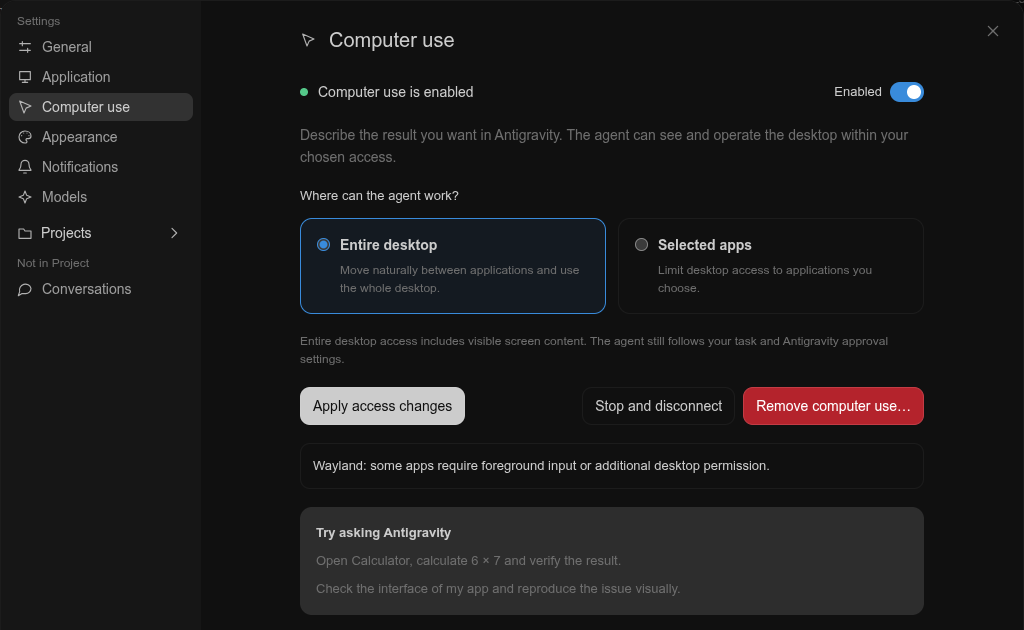
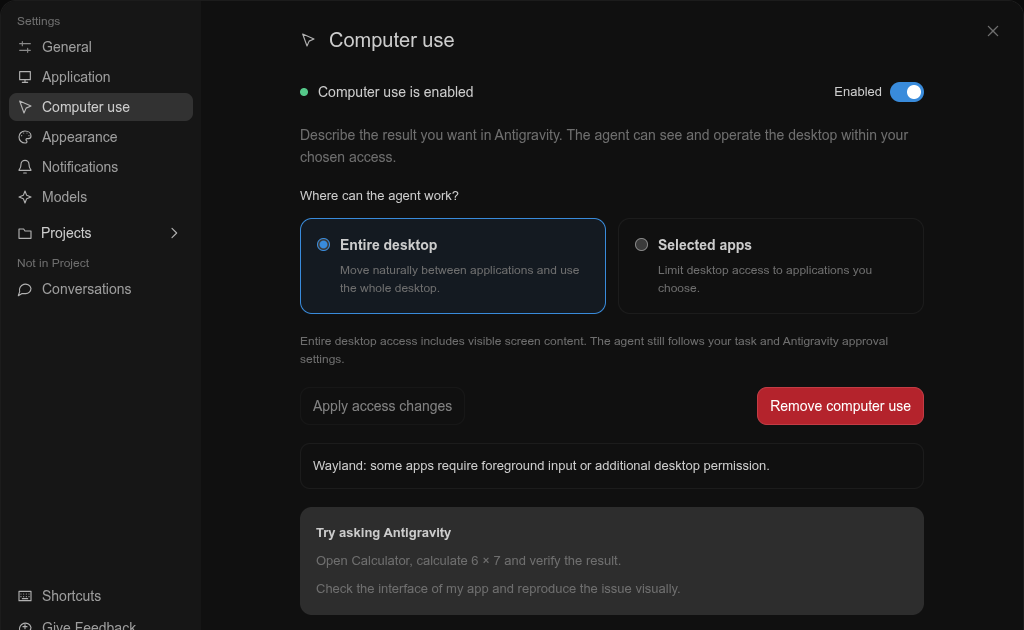
Simplify computer-use states and apply only changed access settings

diff --git a/common/computer-use-settings.js b/common/computer-use-settings.js
@@ -1,7 +1,7 @@
 /* Guided desktop access in a dedicated native Settings page. */
 (() => {
  'use strict';
- const VERSION = '1.4.1';
+ const VERSION = '1.4.2';
  if (globalThis.__AGComputerUse?.version === VERSION) return;
  globalThis.__AGComputerUse?.destroy();
  const i18n = globalThis.__AGPAI18n;
@@ -10,7 +10,7 @@
  const pending = new Map();
  let section, state = {}, busy = false, draft = typeof savedDraft === 'string' ? savedDraft : savedDraft?.apps;
  let scopeDraft = savedDraft?.scope, nativeRefresh = null, scheduled = false, destroyed = false, refreshing = false;
- let checksSignature = '', autoQueued = false;
+ let checksSignature = '', autoQueued = false, pendingAction = null, actionEpoch = 0, stopRequested = false;
  const errors = {
   selectApps: 'Choose at least one application executable.', invalidApp: 'Use an existing absolute executable path for each application.',
   serverConflict: 'This MCP server name is already used. Resolve the conflict in native MCP settings.',
@@ -29,6 +29,7 @@
   i18n.attrs(element, attributes); return element;
  }
  function scope() {return scopeDraft || state.scope || 'desktop';}
+ function selectedApps() {return section.querySelector('textarea').value.split(/\r?\n/).map(value=>value.trim()).filter(Boolean);}
  function rows(checks, step, withUpdates = false) {
   return checks.map(check => {
    const active = step === check.id;
@@ -53,8 +54,10 @@
   if (!section || destroyed) return;
   const t = (selector, text, params) => i18n.set(section.querySelector(selector), text, params);
   const working = busy || !!state.operation;
+  const enabling = !stopRequested && (pendingAction === 'setup' || ['setup','install','connect'].includes(state.operation));
+  const switchOn = pendingAction !== 'disconnect' && (!!state.enabled || enabling);
   t('[data-cu-connection]', state.operation === 'uninstall' ? 'Removing computer use…' : state.operation ? 'Preparing computer use…' : state.enabled ? state.needsHelper ? 'Desktop access needs activation' : 'Computer use is enabled' : 'Your agent, across your desktop');
-  t('[data-cu-summary]', state.enabled ? 'Describe the result you want in Antigravity. The agent can see and operate the desktop within your chosen access.' : 'Let Antigravity work across your apps: explore, click, type and verify the result.');
+  t('[data-cu-summary]', state.enabled ? 'Describe the result you want in Antigravity. The agent can see and operate the desktop within your chosen access.' : state.installed ? 'Computer use is disabled. Your installation and access settings are kept.' : 'Let Antigravity work across your apps: explore, click, type and verify the result.');
   const loginRequired = state.needsHelper && state.helperInstalled && ['signInRequired', 'unknown'].includes(state.helperState);
   t('[data-cu-platform]', loginRequired ? 'Sign out of Linux to activate desktop access' : state.needsHelper ? state.helperInstalled ? 'The GNOME helper is disabled or could not load. Select Repair desktop helper, then refresh status.' : 'The setup will install the GNOME desktop helper. A new sign-in is required to activate it.' : state.session === 'wayland' ? 'Wayland: some apps require foreground input or additional desktop permission.' : state.experimental ? 'Windows support is experimental. Keep the target app visible in your desktop session.' : 'Desktop permissions may be requested when you first use an application.');
   section.querySelector('[data-cu-login-steps]').hidden = !loginRequired;
@@ -62,17 +65,23 @@
   t('[data-cu-connect]', working ? 'Preparing computer use…' : 'Apply access changes');
   section.querySelector('[data-cu-connect]').hidden = !state.enabled;
   const toggle=section.querySelector('[data-cu-toggle]');
-  toggle.setAttribute('aria-checked',String(!!state.enabled));
-  i18n.set(toggle,state.enabled?'Disconnect the agent and keep setup.':'Enable using the access selected below.',{},'title');
-  t('[data-cu-toggle-label]',state.enabled?'Enabled':'Disabled');
+  toggle.setAttribute('aria-checked',String(switchOn));
+  i18n.set(toggle,switchOn?'Disconnect the agent and keep setup.':'Enable using the access selected below.',{},'title');
+  t('[data-cu-toggle-label]',pendingAction==='disconnect'?'Disabling…':enabling&&!state.enabled?'Enabling…':state.enabled?'Enabled':'Disabled');
+  section.querySelector('[data-cu-runtime-notice]').hidden = !switchOn;
+  section.querySelector('[data-cu-examples]').hidden = !state.enabled;
+  section.querySelector('[data-cu-advanced-actions]').hidden = !state.enabled;
+  section.querySelector('[data-cu-native-note]').hidden = !state.enabled;
+  section.querySelector('[data-cu-operation]').hidden = !state.enabled && !state.error && !working;
+  t('[data-cu-details-title]',switchOn?'Connection details':'Installation details');
   t('[data-cu-removal]', state.removal?.skillRetained ? 'Computer use removed. Your locally edited skill was kept; rename or remove it before setting up again.' : 'Computer use removed. Select Enable computer use for a fresh setup.');
   section.querySelector('[data-cu-removal]').hidden = !state.removal;
   const checks = globalThis.__AGPAComputerUseChecks(state, globalThis.__AGNativeMcp?.status());
   const step = state.progress?.step || (refreshing ? 'native' : null);
-  const checksKey = JSON.stringify([checks, i18n.language, state.driverVersion, loginRequired, step, state.updates?.checking]);
+  const checksKey = JSON.stringify([checks, i18n.language, state.driverVersion, loginRequired, step, state.updates?.checking, switchOn]);
   if (checksKey !== checksSignature) {
    checksSignature = checksKey;
-   section.querySelector('[data-cu-checks]').replaceChildren(...rows(checks,step,true));
+   section.querySelector('[data-cu-checks]').replaceChildren(...rows(switchOn?checks:checks.filter(check=>check.id==='driver'),step,true));
    section.querySelector('[data-cu-progress-checks]').replaceChildren(...rows(checks,step));
   }
   const inProgress = working || refreshing;
@@ -102,13 +111,16 @@
    for (const choice of state.availableApps || []) select.append(node('option', {value: choice.executable, text: choice.name}));
   }
   for (const button of section.querySelectorAll('button')) button.disabled = working;
-  section.querySelector('[data-cu-disconnect]').disabled = !state.enabled && !state.registered && !state.operation;
+  const changed=globalThis.__AGPAComputerUseAccessChanged(state,{scope:scope(),apps:selectedApps()});
+  const apply=section.querySelector('[data-cu-connect]');
+  apply.disabled = working || !state.enabled || !changed;
+  apply.classList.toggle('agpa-cu-primary',!apply.disabled);
   section.querySelector('[data-cu-check]').disabled ||= !state.enabled;
   section.querySelector('[data-cu-capture]').hidden = scope() !== 'desktop';
   section.querySelector('[data-cu-capture]').disabled ||= !state.enabled || !!state.needsHelper || state.scope !== 'desktop';
   section.querySelector('[data-cu-helper]').hidden = !state.needsHelper || !state.installed || loginRequired;
   section.querySelector('[data-cu-remove]').disabled ||= !state.installed && !state.registered && !state.skillReady;
-  toggle.disabled = working || !state.platform;
+  toggle.disabled = !state.platform || pendingAction==='disconnect' || pendingAction==='uninstall' || state.operation==='uninstall';
   const updateButton=section.querySelector('[data-cu-updates]');if(updateButton)updateButton.disabled=working||!!update?.checking;
   section.querySelector('[data-cu-progress-close]').disabled=false;section.querySelector('[data-cu-update-close]').disabled=false;
   section.querySelector('[data-cu-progress-stop]').disabled=false;
@@ -134,7 +146,7 @@
   const previousAction=state.operation;
   const completed = !!state.operation && !next.operation;
   if (completed && ['setup','connect'].includes(previousAction) && !next.error) {draft = undefined;scopeDraft = undefined;}
-  state = next; paint();
+  state = next;if(!state.enabled&&!state.operation)stopRequested=false;paint();
   if (completed && ['setup','uninstall','connect','check'].includes(previousAction) && !state.error) refreshNative();
   maybeVerify();
  }
@@ -144,16 +156,17 @@
  }
  async function act(action) {
   if (busy && action !== 'disconnect') return;
-  busy = true;paint();
+  const epoch=++actionEpoch;if(action==='disconnect')stopRequested=true;else if(action==='setup')stopRequested=false;pendingAction=action;busy = true;paint();
   if(action==='setup'){section.querySelector('[data-cu-progress-dialog]').showModal();section.querySelector('[data-cu-progress-close]').focus();}
   try {
-   const apps = section.querySelector('textarea').value.split(/\r?\n/).map(s => s.trim()).filter(Boolean);
+   const apps = selectedApps();
    const next = await request(action, ['setup', 'connect'].includes(action) ? {scope: scope(), apps} : true);
+   if(epoch!==actionEpoch)return;
    receive(next);
    if (['connect', 'disconnect', 'refresh'].includes(action) && !state.error) await refreshNative();
    if (['setup', 'connect'].includes(action) && !state.error && !state.operation) {draft = undefined;scopeDraft = undefined;}
-  } catch {state = {...state, error: 'operationFailed'};}
-  finally {busy = false;paint();maybeVerify();}
+  } catch {if(epoch===actionEpoch)state = {...state, error: 'operationFailed'};}
+  finally {if(epoch===actionEpoch){busy = false;pendingAction=null;paint();maybeVerify();}}
  }
  function build() {
   const scopes = node('fieldset', {class: 'agpa-cu-scopes'}, node('legend', {text: 'Where can the agent work?'}));
@@ -167,24 +180,22 @@
   }
   const textarea = node('textarea', {rows: '3', class: 'agpa-cu-apps', 'aria-label': 'Allowed application executables', placeholder: 'One absolute executable path per line'});
   if (draft !== undefined) textarea.value = draft;
-  textarea.addEventListener('input', () => {draft = textarea.value;});
+  textarea.addEventListener('input', () => {draft = textarea.value;paint();});
   const select = node('select', {'aria-label': 'Detected applications', class: 'agpa-cu-apps'});
   const add = node('button', {type: 'button', class: 'agpa-app-icon-option', text: 'Add application'});
-  add.addEventListener('click', () => {if (!select.value) return;const apps = new Set(textarea.value.split(/\r?\n/).map(s => s.trim()).filter(Boolean));apps.add(select.value);draft = textarea.value = [...apps].join('\n');});
+  add.addEventListener('click', () => {if (!select.value) return;const apps = new Set(selectedApps());apps.add(select.value);draft = textarea.value = [...apps].join('\n');paint();});
   const apps = node('div', {'data-cu-app-scope': '', class: 'agpa-cu-selected'}, node('div', {class: 'agpa-patch-actions'}, select, add), textarea);
   const enable = node('button', {type: 'button', class: 'agpa-app-icon-option agpa-cu-primary', 'data-cu-connect': '', text: 'Enable computer use'});
   enable.addEventListener('click', () => act('setup'));
   const toggle=node('button',{type:'button',class:'agpa-cu-enable-switch',role:'switch','aria-label':'Computer use','aria-checked':'false','data-cu-toggle':''},
    node('span',{'data-cu-toggle-label':''}),node('span',{class:'agpa-cu-switch-track','aria-hidden':'true'},node('span',{class:'agpa-cu-switch-thumb'})));
-  toggle.addEventListener('click',()=>act(state.enabled?'disconnect':'setup'));
-  const stop = node('button', {type: 'button', class: 'agpa-app-icon-option', 'data-cu-disconnect': '', text: 'Stop and disconnect'});
-  stop.addEventListener('click', () => act('disconnect'));
-  const advancedActions = node('div', {class: 'agpa-patch-actions'});
+  toggle.addEventListener('click',()=>act(state.enabled||state.operation||busy?'disconnect':'setup'));
+  const advancedActions = node('div', {class: 'agpa-patch-actions','data-cu-advanced-actions':''});
   for (const [action, key, label] of [['setupHelper', 'helper', 'Repair desktop helper'], ['check', 'check', 'Check connection'], ['refresh', 'status', 'Refresh status'], ['capture', 'capture', 'Test screen capture']]) {
    const button = node('button', {type: 'button', class: 'agpa-app-icon-option', [`data-cu-${key}`]: '', text: label});
    button.addEventListener('click', () => act(action));advancedActions.append(button);
   }
-  const remove = node('button', {type:'button',class:'agpa-app-icon-option agpa-cu-danger','data-cu-remove':'',text:'Remove computer use…'});
+  const remove = node('button', {type:'button',class:'agpa-app-icon-option agpa-cu-danger','data-cu-remove':'',text:'Remove computer use'});
   remove.addEventListener('click', () => {removal.showModal();cancel.focus();});
   const cancel = node('button', {type:'button',class:'agpa-app-icon-option',text:'Cancel'});
   cancel.addEventListener('click', () => removal.close());
@@ -197,7 +208,7 @@
    node('p',{class:'agpa-cu-muted',text:'Other MCP servers, conversations and edited skills are kept. The shared GNOME helper and other Cua installations are kept.'})),
    node('div',{class:'agpa-patch-actions'}, cancel,confirm));
   const progressClose=node('button',{type:'button',class:'agpa-app-icon-option','data-cu-progress-close':'',text:'Continue in background'});
-  const progressStop=node('button',{type:'button',class:'agpa-app-icon-option','data-cu-progress-stop':'',text:'Stop and disconnect'});
+  const progressStop=node('button',{type:'button',class:'agpa-app-icon-option','data-cu-progress-stop':'',text:'Cancel setup'});
   const progressDialog=node('dialog',{class:'agpa-cu-confirm agpa-cu-progress','data-cu-progress-dialog':'','aria-labelledby':'agpa-cu-progress-title'},
    node('h3',{id:'agpa-cu-progress-title'},node('span',{'data-cu-progress-indicator':'','aria-hidden':'true'}),node('span',{'data-cu-progress-title':''})),
    node('p',{'data-cu-progress-label':'',role:'status','aria-live':'polite'}),
@@ -214,23 +225,23 @@
    node('a',{'data-cu-release-link':'',target:'_blank',rel:'noopener noreferrer',text:'View official release notes'}),
    node('div',{class:'agpa-patch-actions'},updateClose));
   updateClose.addEventListener('click',()=>updateDialog.close());
-  const examples = node('div', {class: 'agpa-cu-examples'}, node('strong', {text: 'Try asking Antigravity'}),
+  const examples = node('div', {class: 'agpa-cu-examples','data-cu-examples':''}, node('strong', {text: 'Try asking Antigravity'}),
    node('p', {text: 'Open Calculator, calculate 6 × 7 and verify the result.'}),
    node('p', {text: 'Check the interface of my app and reproduce the issue visually.'}));
   section = node('section', {class: 'agpa-cu-panel', 'data-agpa-computer-use-setting': ''},
    node('div', {class: 'agpa-cu-hero'}, node('span', {class: 'agpa-cu-status-dot', 'aria-hidden': 'true'}), node('h3', {'data-cu-connection': '', role: 'status'}),toggle),
    node('p', {class: 'agpa-cu-summary', 'data-cu-summary': ''}), scopes, apps,
    node('p', {class: 'agpa-cu-muted', text: 'Entire desktop access includes visible screen content. The agent still follows your task and Antigravity approval settings.'}),
-   node('div', {class: 'agpa-cu-controls'}, enable, node('div',{class:'agpa-cu-stop-actions'},stop,remove)),
-   node('div', {class: 'agpa-cu-notice'}, node('p', {'data-cu-platform': ''}),
+   node('div', {class: 'agpa-cu-controls'}, enable,remove),
+   node('div', {class: 'agpa-cu-notice','data-cu-runtime-notice':''}, node('p', {'data-cu-platform': ''}),
     node('p', {'data-cu-login-steps': '', text: 'Save your work, then choose Log Out / End Session in the Linux system menu and sign in again. Lock / Unlock keeps the same session and does not load the helper. Reopen Antigravity and select Refresh status.'})),
    examples,
-   node('details', {class: 'agpa-cu-advanced'}, node('summary', {text: 'Connection details'}),
+   node('details', {class: 'agpa-cu-advanced'}, node('summary', {'data-cu-details-title':'',text: 'Connection details'}),
     node('ul', {class:'agpa-cu-checks','data-cu-checks':'','aria-label':'Connection checks'}),
     advancedActions,
     node('p', {class: 'agpa-app-icon-status', 'data-cu-operation': '', role: 'status', 'aria-live': 'polite'}),
     removal,node('p',{class:'agpa-cu-notice','data-cu-removal':'',role:'status'}),
-    node('p', {class: 'agpa-cu-muted', text: 'Available to the native Antigravity agent. The embedded Gemini website does not receive these tools.'}),
+    node('p', {class: 'agpa-cu-muted', 'data-cu-native-note':'',text: 'Available to the native Antigravity agent. The embedded Gemini website does not receive these tools.'}),
     node('a', {href: 'https://github.com/Riccardo-Vecchi/antigravity-plugin/blob/main/docs/COMPUTER_USE.md', target: '_blank', rel: 'noopener noreferrer', text: 'Computer-use setup guide'})),progressDialog,updateDialog);
   request('status', true).then(receive).catch(() => {});
  }
@@ -251,7 +262,7 @@
   .agpa-cu-switch-track{display:block;position:relative;width:34px;height:20px;background:#666;border-radius:20px}
   .agpa-cu-switch-thumb{display:block;position:absolute;top:3px;left:3px;width:14px;height:14px;border-radius:50%;background:white}
   .agpa-cu-enable-switch[aria-checked=true] .agpa-cu-switch-track{background:#398bdb}.agpa-cu-enable-switch[aria-checked=true] .agpa-cu-switch-thumb{left:17px}
-  .agpa-cu-controls{display:flex;align-items:center;justify-content:space-between;gap:12px;flex-wrap:wrap}.agpa-cu-stop-actions{display:flex;gap:8px;margin-left:auto;flex-wrap:wrap}
+  .agpa-cu-controls{display:flex;align-items:center;justify-content:space-between;gap:12px;flex-wrap:wrap}.agpa-cu-controls>[data-cu-remove]{margin-left:auto}
   .agpa-cu-panel[data-state=enabled] .agpa-cu-status-dot{background:#55c98a}.agpa-cu-panel[data-state=attention] .agpa-cu-status-dot{background:#e5b35e}
   .agpa-cu-panel[data-state=error] .agpa-cu-status-dot{background:#e66d6d}.agpa-cu-summary{color:var(--muted-foreground,#aaa);font-size:14px}
   .agpa-cu-scopes{border:0;padding:0;margin:0;display:grid;grid-template-columns:1fr 1fr;gap:12px}

diff --git a/docs/COMPUTER_USE.md b/docs/COMPUTER_USE.md
@@ -6,7 +6,7 @@ Give the **native Antigravity agent** desktop tools through the maintained [Cua 
 
 1. Open **Settings → Computer use**, its own item in the Settings menu. Settings navigation has icons; its Projects group can be collapsed and uses your configured project appearance.
 2. Choose **Entire desktop** to work across your environment, or **Selected apps** for an application allowlist.
-3. Turn on the **Computer use** switch at the top. A centered progress dialog shows the active step with a spinner, individual checks, and actual downloaded MB. **Continue in background** or Escape hides the dialog while setup continues; **Stop and disconnect** revokes it. Setup downloads the reviewed driver, verifies its SHA-256, installs the GNOME helper when needed, writes this integration's MCP entry and skill, checks the protocol and asks Antigravity to refresh only this server.
+3. Turn on the **Computer use** switch at the top. A centered progress dialog shows the active step with a spinner, individual checks, and actual downloaded MB. **Continue in background** or Escape hides the dialog while setup continues; **Cancel setup** revokes it. Setup downloads the reviewed driver, verifies its SHA-256, installs the GNOME helper when needed, writes this integration's MCP entry and skill, checks the protocol and asks Antigravity to refresh only this server.
 4. Follow any OS access prompt. On GNOME/Wayland, the helper needs a **Linux session logout/login once** to load. Save your work, open the system menu → Power → Log Out (on Zorin), then sign in to Linux again. Reopen Antigravity and select **Refresh status**. **Locking/unlocking the screen keeps the same Linux session and does not load the extension.** Closing the app or signing out of Google also does not load it. The wizard never logs you out or restarts your apps.
 5. Start a **new Antigravity conversation** and describe the result you want. Existing conversations can keep their earlier tool list.
 
@@ -43,19 +43,25 @@ In either mode, the bridge exposes only the reviewed GUI tool set (17 tools for 
 
 The top switch reflects the actual connection state. **OFF** revokes desktop access and disconnects the native agent while keeping the installed driver and access choices. **ON** runs setup/reconnection using the access currently selected below; an installed reviewed driver is reused. **Apply access changes** saves scope edits while enabled.
 
-The switch and **Stop and disconnect** share one connection state. Stop is the immediate action that also cancels in-progress setup; there is no separate hidden “enabled but disconnected” state. The red **Remove computer use…** button is immediately to its right and removes managed components after confirmation.
+The switch is the single connection control and remains usable to cancel setup after the progress dialog is sent to the background. The dialog has a contextual **Cancel setup** action. The red **Remove computer use** button removes managed components after confirmation.
+
+**Apply access changes** is gray and disabled when the visible scope/app list matches the saved configuration. Selecting another scope or editing the selected-app allowlist makes it white and clickable; selecting the original scope again disables it. Reordering/duplicating app paths alone is not an access change.
+
+When disabled, access choices stay editable for the next activation, and **Remove computer use** remains available. Examples, desktop-permission notices and connection checks are hidden. **Installation details** retains the driver version and update check. Enabling restores the full interface without discarding access drafts.
+
+![Disabled computer use keeps access choices and installation details available](images/computer-use-disabled.png)
 
 Activity spinners keep rotating even when the OS requests reduced motion, as an explicit exception limited to these work indicators. Other OS motion preferences are unchanged.
 
-## ⏹ Stop and disconnect
+## ⏹ Disable and cancel
 
-**Stop and disconnect** is always available during setup or while connected. It cancels setup, revokes the lease and removes only the plugin's MCP entry, preserving unrelated servers. The bridge checks revocation every 300 ms, requests graceful shutdown and forces exit if needed. An action already delivered cannot be undone. Driver files, scope choices and the owned skill remain available for reconnecting.
+Switching **OFF** cancels setup and revokes the lease and removes only the plugin's MCP entry, preserving unrelated servers. The bridge checks revocation every 300 ms, requests graceful shutdown and forces exit if needed. An action already delivered cannot be undone. Driver files, scope choices and the owned skill remain available for reconnecting.
 
 The platform disable scripts also disconnect computer use. In Selected apps mode, capability sessions expire after eight hours, with a thirty-minute idle timeout; reconnect to start a fresh runtime. Entire desktop uses the normal driver session lifecycle.
 
 ## ♻ Remove and set up again
 
-Open **Settings → Computer use → Remove computer use…**, the red button beside **Stop and disconnect**, and confirm in the centered dialog. Cancel or press Escape to keep the setup. This revokes the connection, removes only the plugin's own MCP entry, deletes its verified managed driver, setup preferences and unchanged generated skill. Then turn on the top switch to download and configure it again.
+Open **Settings → Computer use → Remove computer use**, the red button, and confirm in the centered dialog. Cancel or press Escape to keep the setup. This revokes the connection, removes only the plugin's own MCP entry, deletes its verified managed driver, setup preferences and unchanged generated skill. Then turn on the top switch to download and configure it again.
 
 Other MCP servers, conversations, Antigravity/Gemini data, other Cua installations and the **shared WinRects GNOME extension** remain untouched. A locally edited skill is preserved and reported: rename or remove it yourself before a fresh setup. Unrecognized driver folders or missing/invalid receipts stop removal instead of deleting unknown files. Use **Repair desktop helper** for a disabled or failed helper; reinstallation is unnecessary when it only needs the next Linux sign-in.
 

diff --git a/README.md b/README.md
@@ -6,7 +6,7 @@
 
 # 🧩 Antigravity Plugin
 
-[![Version 1.2.1](https://img.shields.io/badge/version-1.2.1-blue)](CHANGELOG.md)
+[![Version 1.2.2](https://img.shields.io/badge/version-1.2.2-blue)](CHANGELOG.md)
 [![Checks](https://github.com/Riccardo-Vecchi/antigravity-plugin/actions/workflows/checks.yml/badge.svg?branch=main)](https://github.com/Riccardo-Vecchi/antigravity-plugin/actions/workflows/checks.yml)
 [![Linux verified](https://img.shields.io/badge/Linux-verified-brightgreen)](docs/CONFIGURATION.md)
 [![Windows experimental](https://img.shields.io/badge/Windows-experimental-orange)](windows/README.md)
@@ -22,13 +22,13 @@
 
 | Platform | Status |
 | --- | --- |
-| 🐧 Linux x86-64 | Verified with Antigravity App 2.26.0 on Zorin/GNOME 46 |
+| 🐧 Linux x86-64 | Verified with Antigravity App 2.27.0 on Zorin/GNOME 46 |
 | <img src="assets/logos/windows.svg" width="18" alt="Windows"> Windows 11 x64 | **Experimental**; full desktop verification is pending |
 
 ## ✨ Features
 
 - Gemini in the same window, with an in-page return button and a configurable shortcut (default **Ctrl+Alt+G**).
-- Optional **Computer Use** through maintained Cua Driver: guided setup, entire-desktop or selected-app access, a progress dialog, automatic capture checks, upstream update checks, Stop controls and clean reinstallation. [Setup guide](docs/COMPUTER_USE.md).
+- Optional **computer use** with guided setup for the whole desktop or selected apps. [Setup guide](docs/COMPUTER_USE.md).
 - Project icons, emoji and colors through **Project ⋯ → Edit**, shared across the sidebar and project selector.
 - Compact sidebar that keeps navigation and project icons visible.
 - Settings navigation with icons, a dedicated Computer use page and a collapsible Projects group that uses your configured project icons and colors.
@@ -72,9 +72,7 @@ Open **Antigravity (customized)** from the Start menu for subsequent launches. T
 
 ## ⚙ Settings and updates
 
-**Computer use** has its own Settings page. Choose **Entire desktop** or **Selected apps**, then turn on the switch at the top: the wizard installs the reviewed driver and connects it to Antigravity over MCP. The progress dialog shows the current step and actual downloaded bytes; it can continue in the background. The wizard refreshes the native MCP server when the app supports it; start a new agent conversation after connecting. Linux is the primary implementation; Windows remains experimental. The embedded Gemini website does not receive desktop tools.
-
-On GNOME/Wayland, newly installed desktop access needs one **Linux logout/login** (locking and unlocking is insufficient). The page explains the steps; closing the app or signing out of Google is insufficient. **Connection details** shows a green check for each passed check, an orange dot for pending checks and a spinner for the active step. Screen capture is tested automatically once desktop access is ready. The refresh icon beside the Cua Driver version checks official upstream releases without replacing the reviewed driver. The top switch connects/disconnects while keeping setup; **Stop and disconnect** also cancels an in-progress setup. The red **Remove computer use…** button beside Stop resets the plugin-managed setup for reinstallation, preserving unrelated integrations and the shared GNOME helper.
+**Computer use:** open **Settings → Computer use**, choose **Entire desktop** or **Selected apps**, and enable it. Works with the native Antigravity agent. On GNOME/Wayland, first setup may require a Linux logout/login. [Setup and troubleshooting](docs/COMPUTER_USE.md).
 
 **Shortcuts** lets you record, save, reset or disable the view-switch shortcut. **Appearance** contains app-icon choices; **Application → Startup** contains launch behavior; **Application → Local customizations** contains status and recovery.
 

diff --git a/docs/PRIVACY.md b/docs/PRIVACY.md
@@ -18,6 +18,6 @@ The optional Cua Driver integration stores access scope, selected local executab
 
 The Computer use documentation screenshot shows only the Settings UI, cropped above the account footer with the Projects group collapsed. It contains no account identifier, chat content or local executable path.
 
-The screen-capture diagnostic runs automatically once desktop access is ready in Entire desktop mode, with manual retry available. It captures once in the local driver process, discards the returned image in memory and reports only success/pending status. It does not send that diagnostic image to a model or save it through the plugin. **Remove computer use…** revokes the connection and removes the verified plugin-managed driver, own MCP entry, setup files and unchanged generated skill. Shared GNOME helper files, other Cua installations and locally edited skills are preserved.
+The screen-capture diagnostic runs automatically once desktop access is ready in Entire desktop mode, with manual retry available. It captures once in the local driver process, discards the returned image in memory and reports only success/pending status. It does not send that diagnostic image to a model or save it through the plugin. **Remove computer use** revokes the connection and removes the verified plugin-managed driver, own MCP entry, setup files and unchanged generated skill. Shared GNOME helper files, other Cua installations and locally edited skills are preserved.
 
 The explicit Cua Driver update check contacts the public GitHub Releases API for `trycua/cua` without account credentials, screenshots or local paths. It reports release metadata and never replaces the reviewed driver.

diff --git a/docs/CONFIGURATION.md b/docs/CONFIGURATION.md
@@ -45,7 +45,7 @@ The additions follow the native page's declared interface language (`<html lang>
 
 Translations cover settings, project editing, the compact sidebar, accessibility labels, tooltips, status/error messages, and the Antigravity return button in Gemini. Icon names can be searched in the selected language; stable icon IDs remain unchanged. Changing language preserves open inputs and unsaved project appearance choices. Project names, user text, and Google's website content are not translated by this helper.
 
-The tested Antigravity 2.26.0 interface declares English and does not expose a native display-language selector in its settings. This integration does not add a separate language preference or translate the native app. Live language checks change the native document's language temporarily, then restore it; following an upstream language preference depends on the app declaring that language.
+The initial localization inspection on Antigravity 2.26.0 found an English interface without a native display-language selector. The current tested Linux compatibility baseline is 2.27.0. This integration does not add a separate language preference or translate the native app. Live language checks change the native document's language temporarily, then restore it; following an upstream language preference depends on the app declaring that language.
 
 ## Gemini sessions and switching
 

diff --git a/linux/README.md b/linux/README.md
@@ -4,7 +4,7 @@ For quick setup, see the [README](../README.md). Shared settings and sessions ar
 
 ## Tested Linux setup
 
-- Antigravity App **2.26.0**, official Linux x86-64 AppImage.
+- Antigravity App **2.27.0**, official Linux x86-64 AppImage.
 - Zorin OS with **GNOME Shell 46**, Wayland, Zorin taskbar, and Zorin AppIndicator.
 - Node.js **22+**, with built-in `fetch` and `WebSocket`.
 - Python 3 with PyGObject/Gio, a user systemd session, `update-desktop-database`, and `gtk-update-icon-cache`.
@@ -13,7 +13,7 @@ The integration uses the app's existing local debugging endpoint. Other app vers
 
 ## Install on Linux
 
-Install the latest official Antigravity AppImage first. The tested compatibility baseline is 2.26.0.
+Install the latest official Antigravity AppImage first. The tested compatibility baseline is 2.27.0.
 
 Linux discovery first reads valid Antigravity `.desktop` entries in the XDG user and system applications directories. It accepts executable AppImages with the AppImage header, including quoted paths and launcher arguments. System launchers are represented by a user override; system files are not edited.
 

diff --git a/CHANGELOG.md b/CHANGELOG.md
@@ -1,5 +1,12 @@
 # Changelog
 
+## 1.2.2
+
+- Update the verified Linux compatibility baseline to Antigravity App 2.27.0, reported working by the repository owner.
+- Enable Apply access changes only for actual unsaved scope/allowlist changes; keep it gray otherwise.
+- Use the top switch as the single connection control, including setup cancellation; retain Cancel setup only in the progress dialog.
+- Simplify Disabled mode to access choices, removal and installation details. Remove the ellipsis from the removal button.
+
 ## 1.2.1
 
 - Make the Antigravity README logo transparent by removing only the SVG favicon background.
